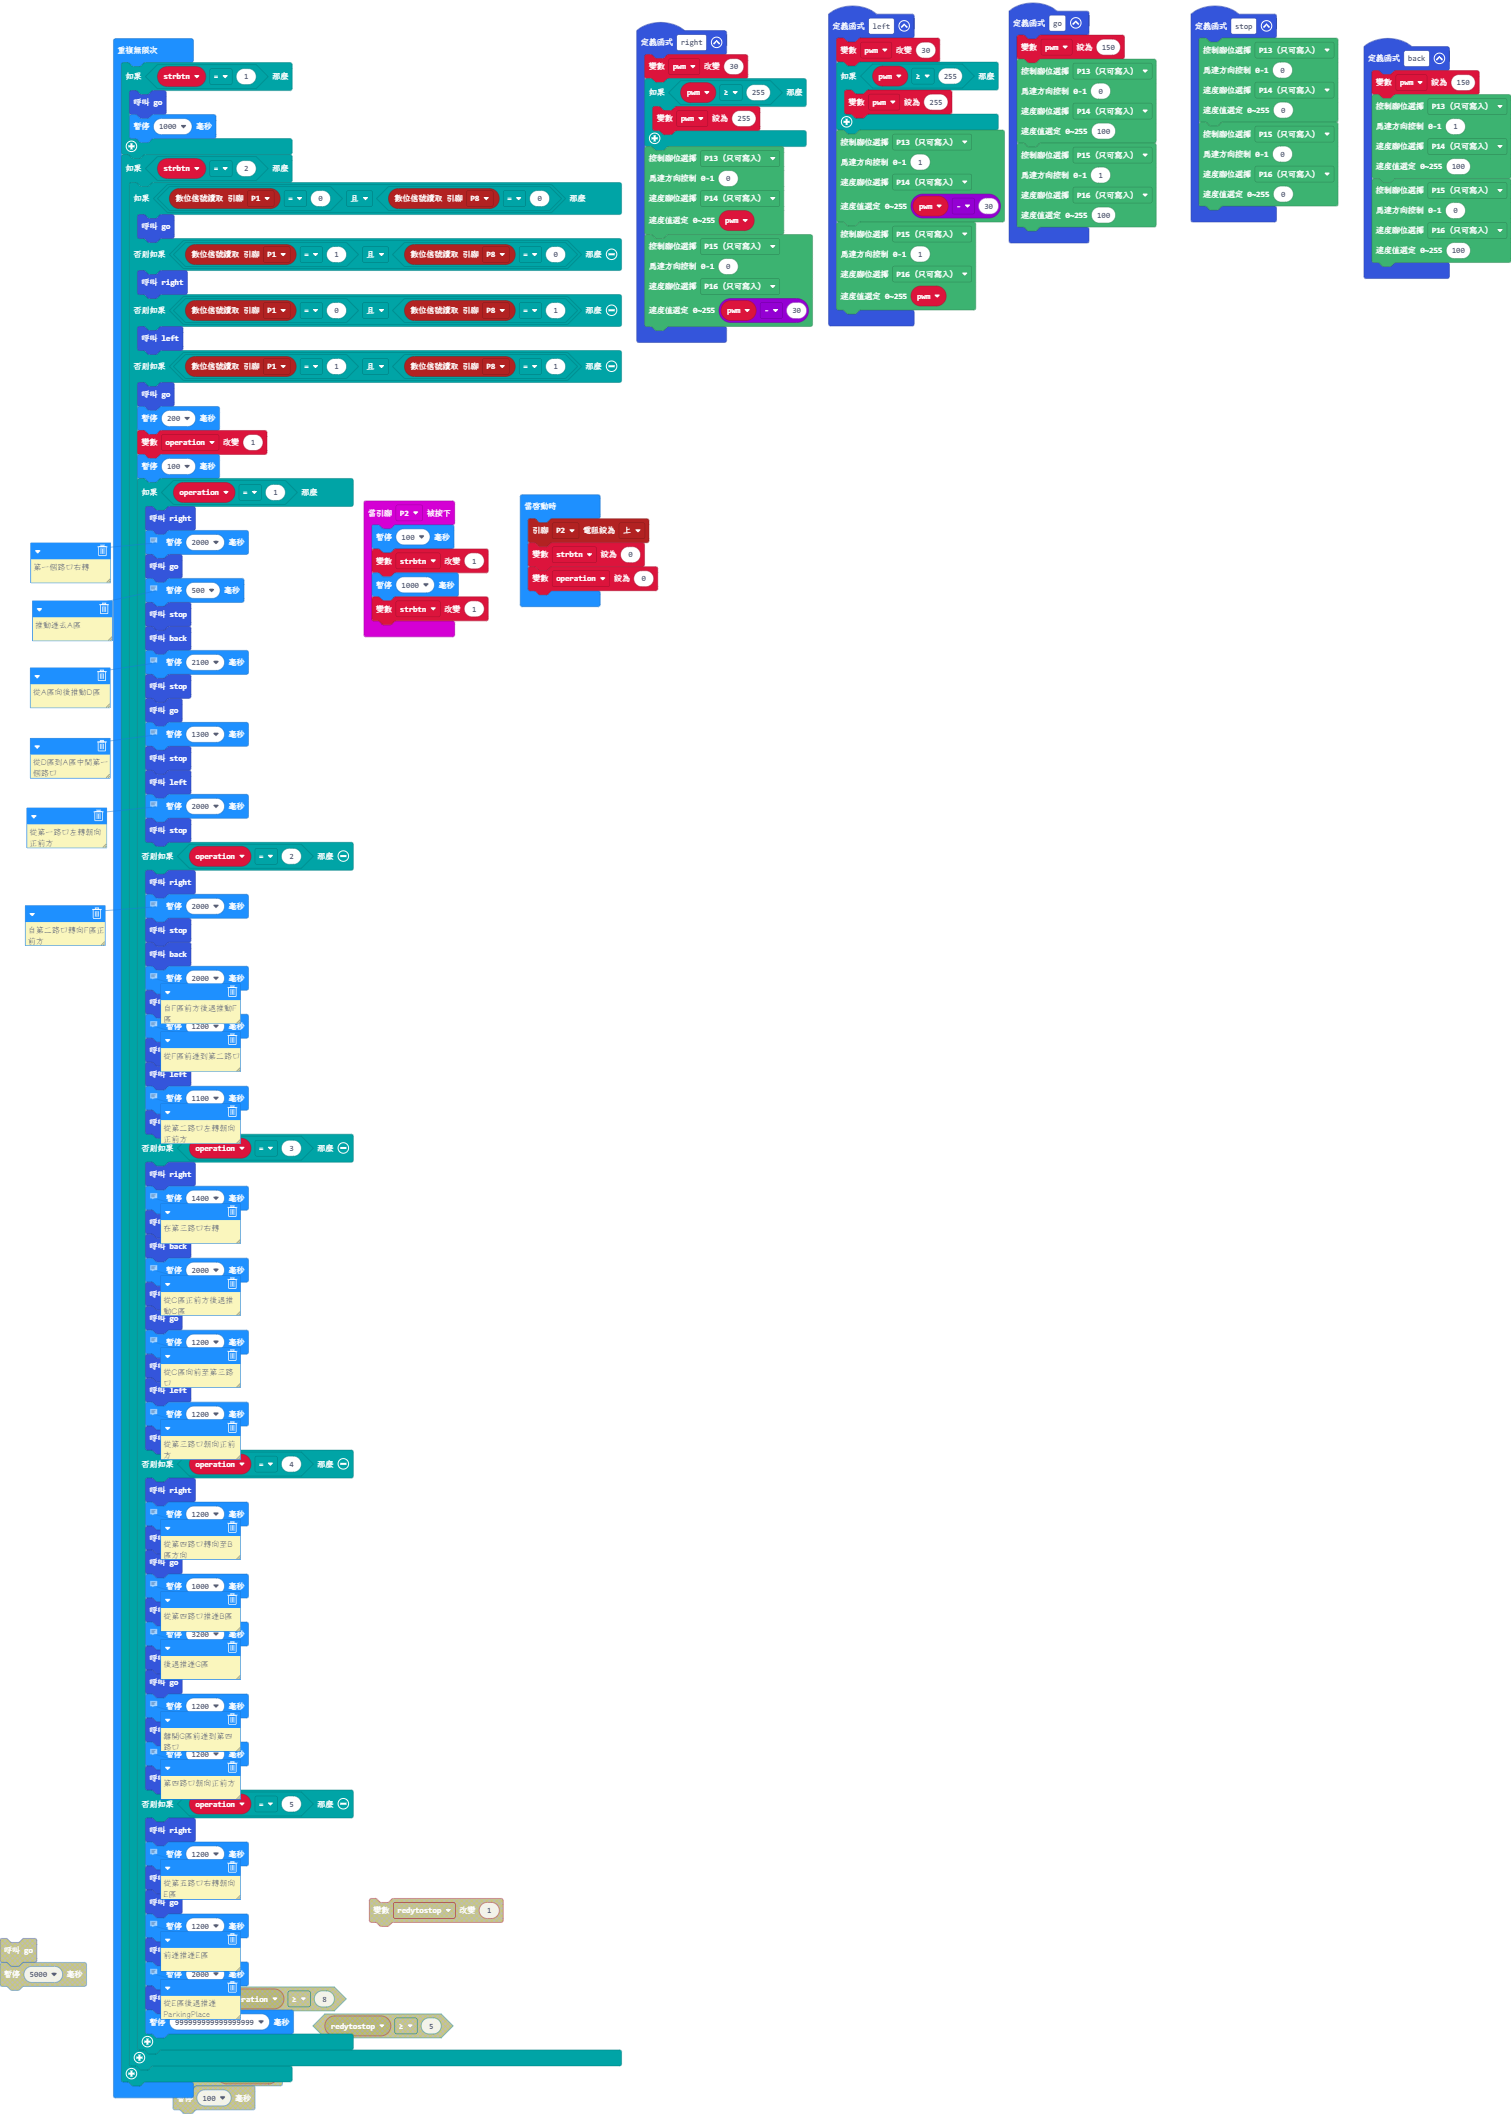
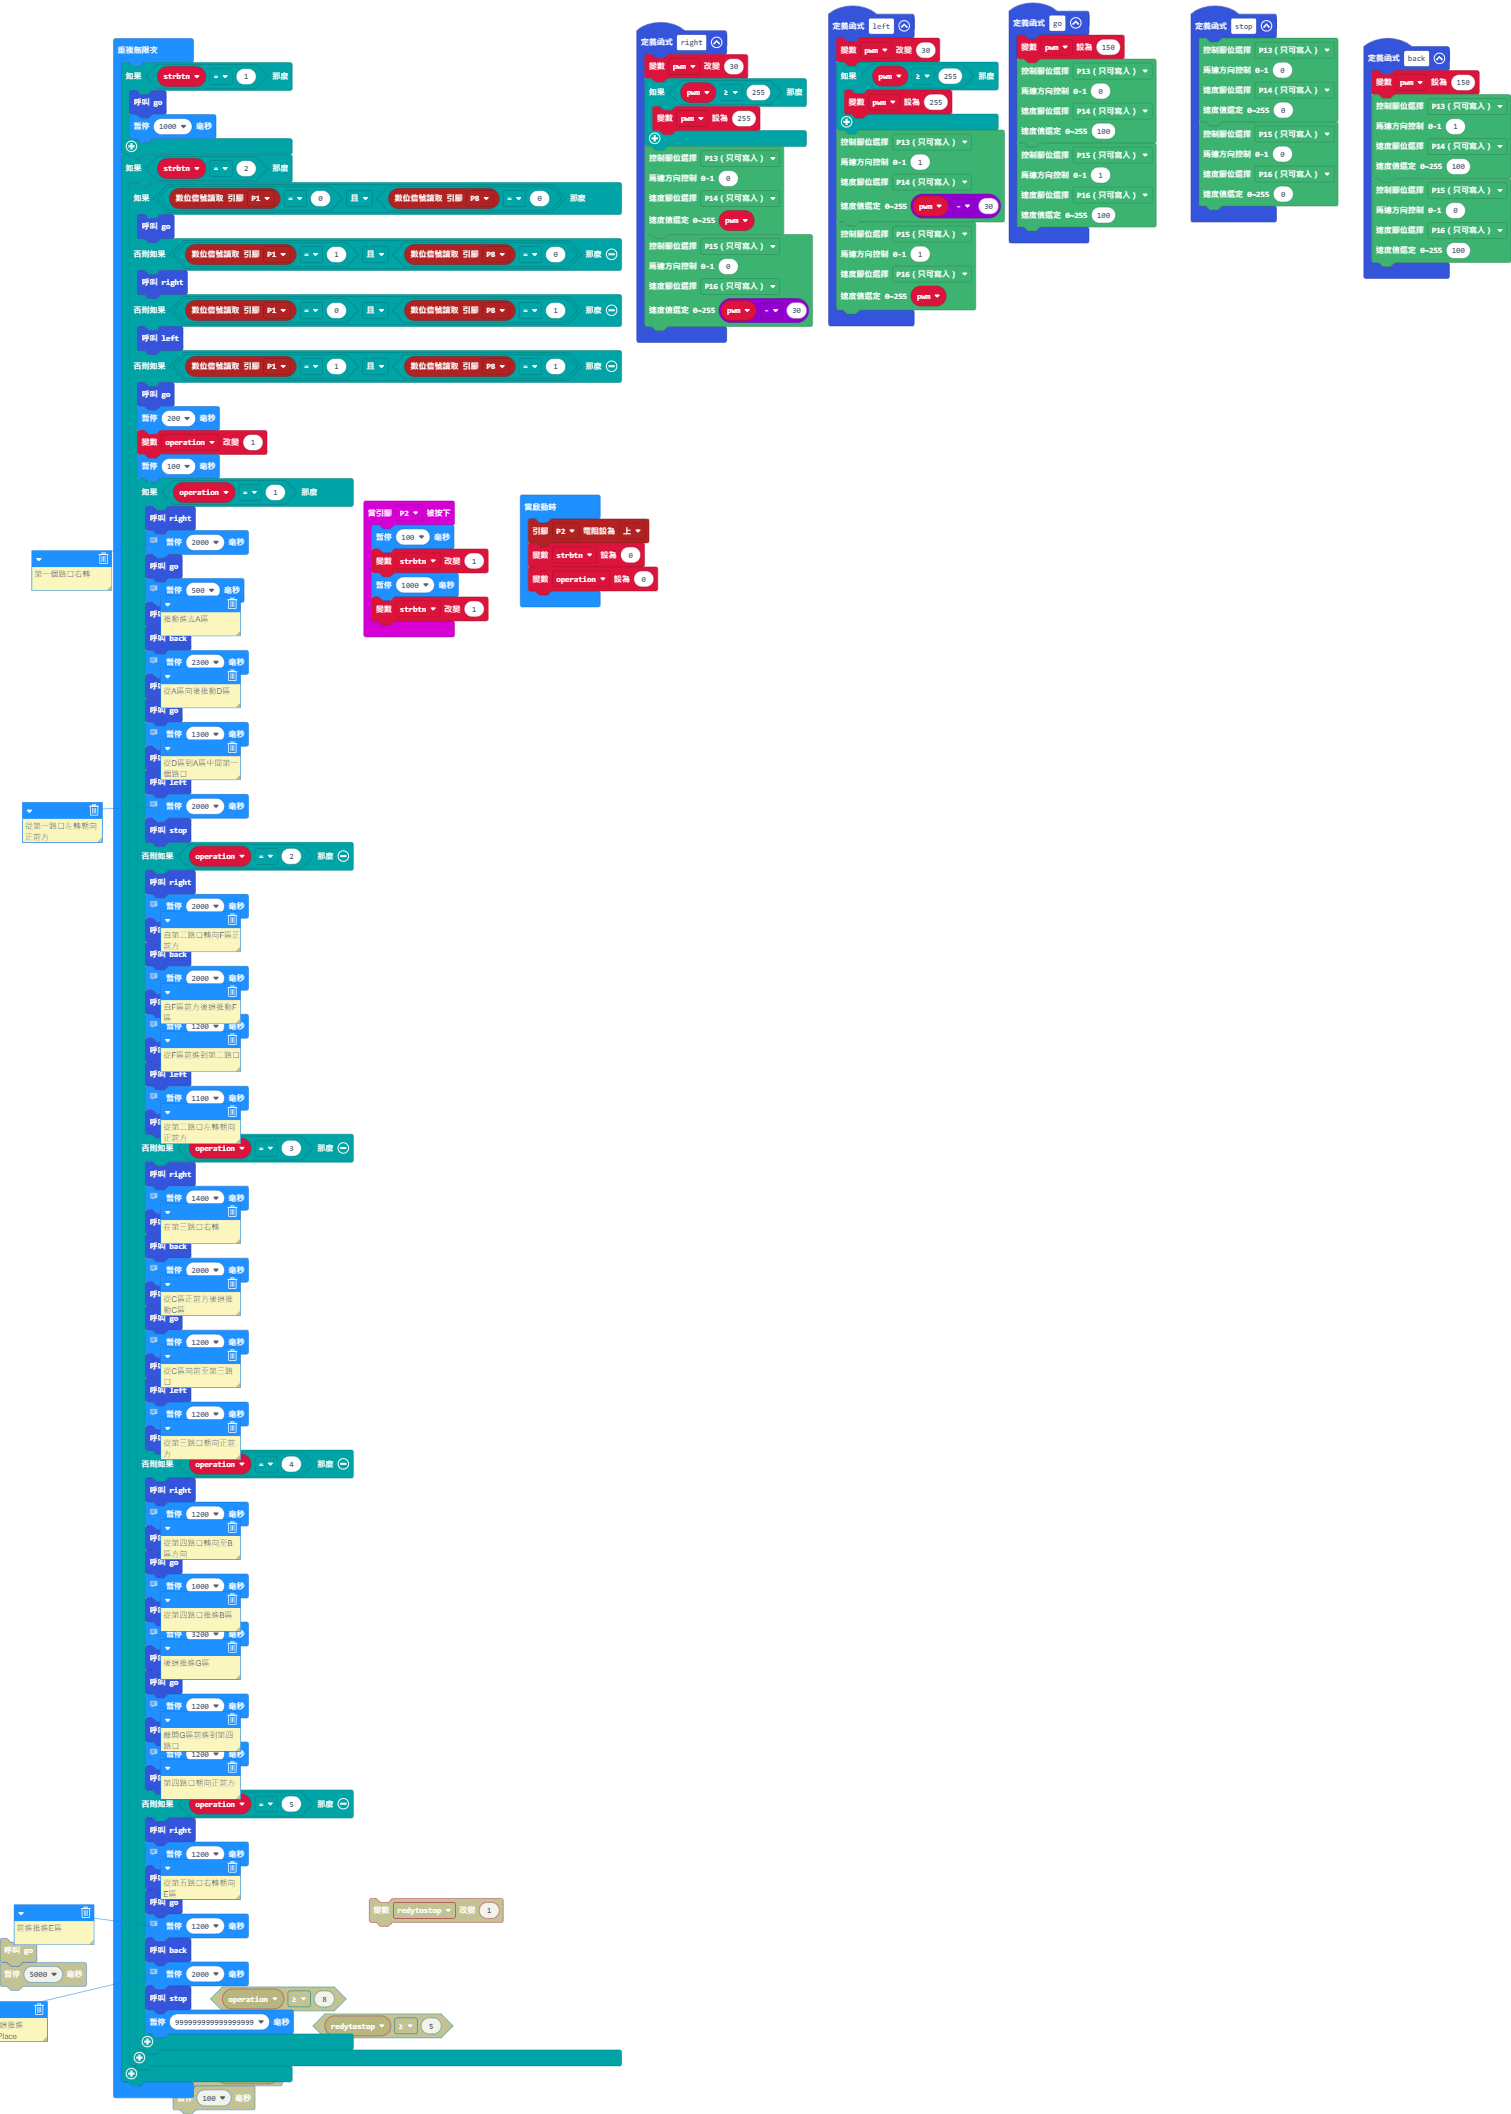
更新 main.blocks, main.ts

diff --git a/main.ts b/main.ts
@@ -115,7 +115,7 @@ basic.forever(function () {
                 stop()
                 back()
                 // 從A區向後推動D區
-                basic.pause(2100)
+                basic.pause(2300)
                 stop()
                 go()
                 // 從D區到A區中間第一個路口
